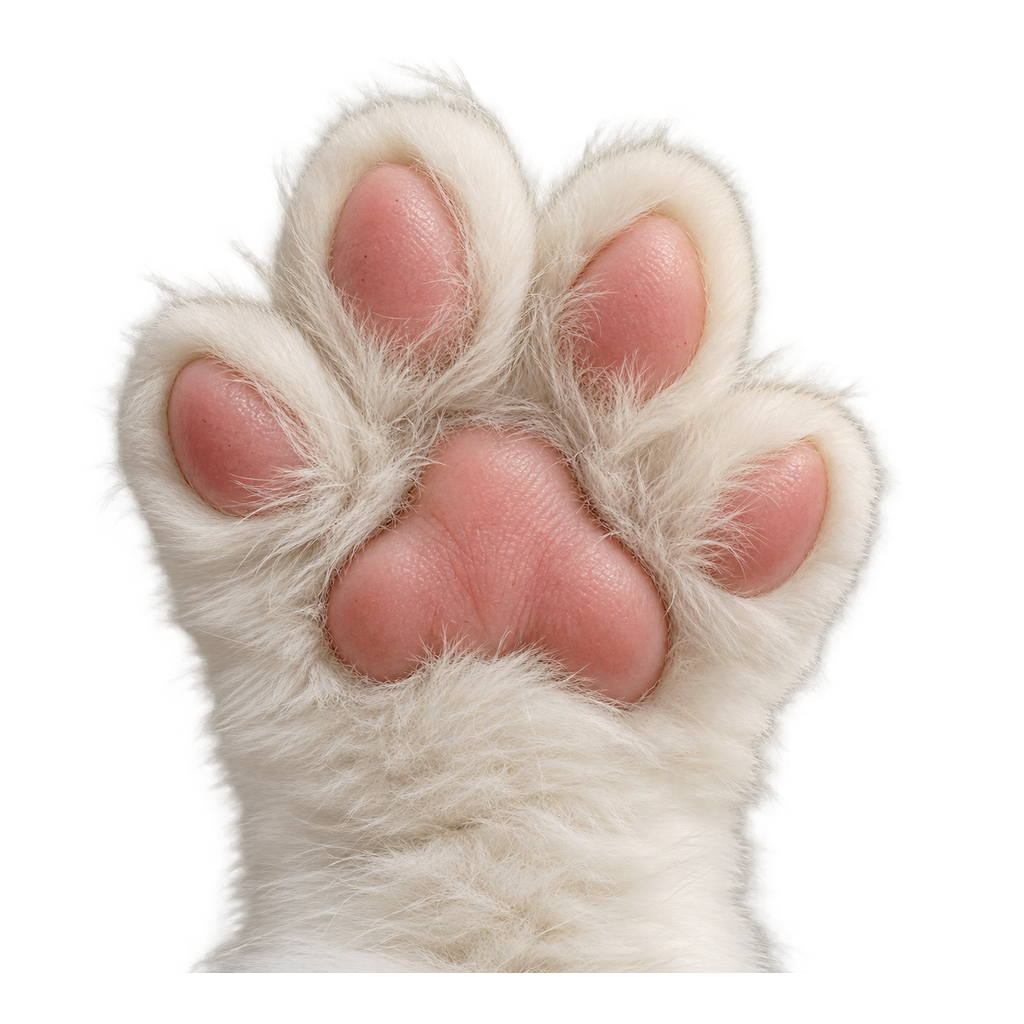
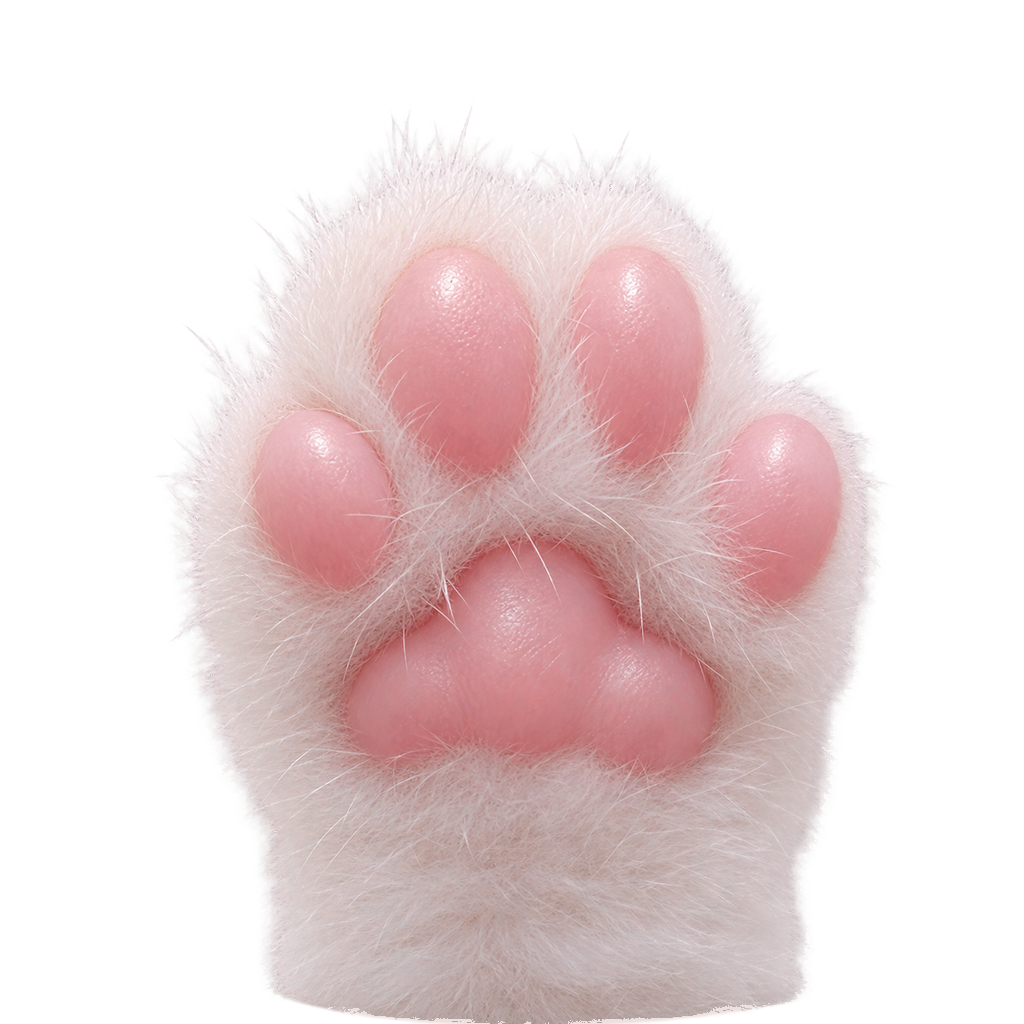
Show the new reference-based kitten paw in the story

diff --git a/development-story-ja.html b/development-story-ja.html
@@ -52,7 +52,7 @@
       .paw-showcase h3 { margin: 1.6em 0 0.25em; color: #4f3327; font-family: Georgia, "Yu Mincho", "Hiragino Mincho ProN", serif; font-size: 1.55rem; }
       .paw-showcase p { margin: 0 0 1.4em; color: #7c695f; font-size: 0.92rem; }
       .paw-back { display: inline-block; margin-bottom: 1.8em; padding: 0.75em 2.8em; border-radius: 999px; background: #fff; color: #6b422e; font-weight: 700; box-shadow: 0 8px 20px rgba(81,52,37,0.14); }
-      .story .paw-showcase img { width: 100%; border-radius: 180px 180px 18px 18px; box-shadow: none; }
+      .story .paw-showcase img { width: 100%; height: auto; border-radius: 180px 180px 18px 18px; box-shadow: none; }
       pre.mermaid { background: #fffdf7; border: 1px solid var(--line); border-radius: 14px; padding: 1em; overflow-x: auto; }
       @media (max-width: 760px) {
         .hero-icon { width: 92px; height: 92px; }
@@ -193,8 +193,8 @@
             <h3>ぷにぷに</h3>
             <p>そっと押してみてね</p>
             <span class="paw-back">もどる</span>
-            <img src="assets/paw-open.png" alt="肉球のアップ" loading="lazy" />
-            <figcaption>アプリ内の肉球画面も、このミルク色のやさしいトーンへ寄せています。</figcaption>
+            <img src="assets/paw-open.png?v=kitten-20261011" alt="短い白い毛と、ぷっくりしたピンクの肉球を持つ子猫の前足" width="1024" height="1024" loading="lazy" />
+            <figcaption>私の参考写真をもとに、子猫の丸くてぷにぷにした肉球へ描き直しました。次回更新用に用意した画像です。</figcaption>
           </figure>
           <h2>課金を、1.0では見送りました</h2>
           <p>当初は買い切りの「プラス」（610円）を用意し、夜の虫と暖炉の音、30分・60分のタイマー、肉球とねこあしの無制限を有料にする予定でした。実装も、価格の取得も、購入の復元も、ひととおり動く状態まで作りました。</p>
